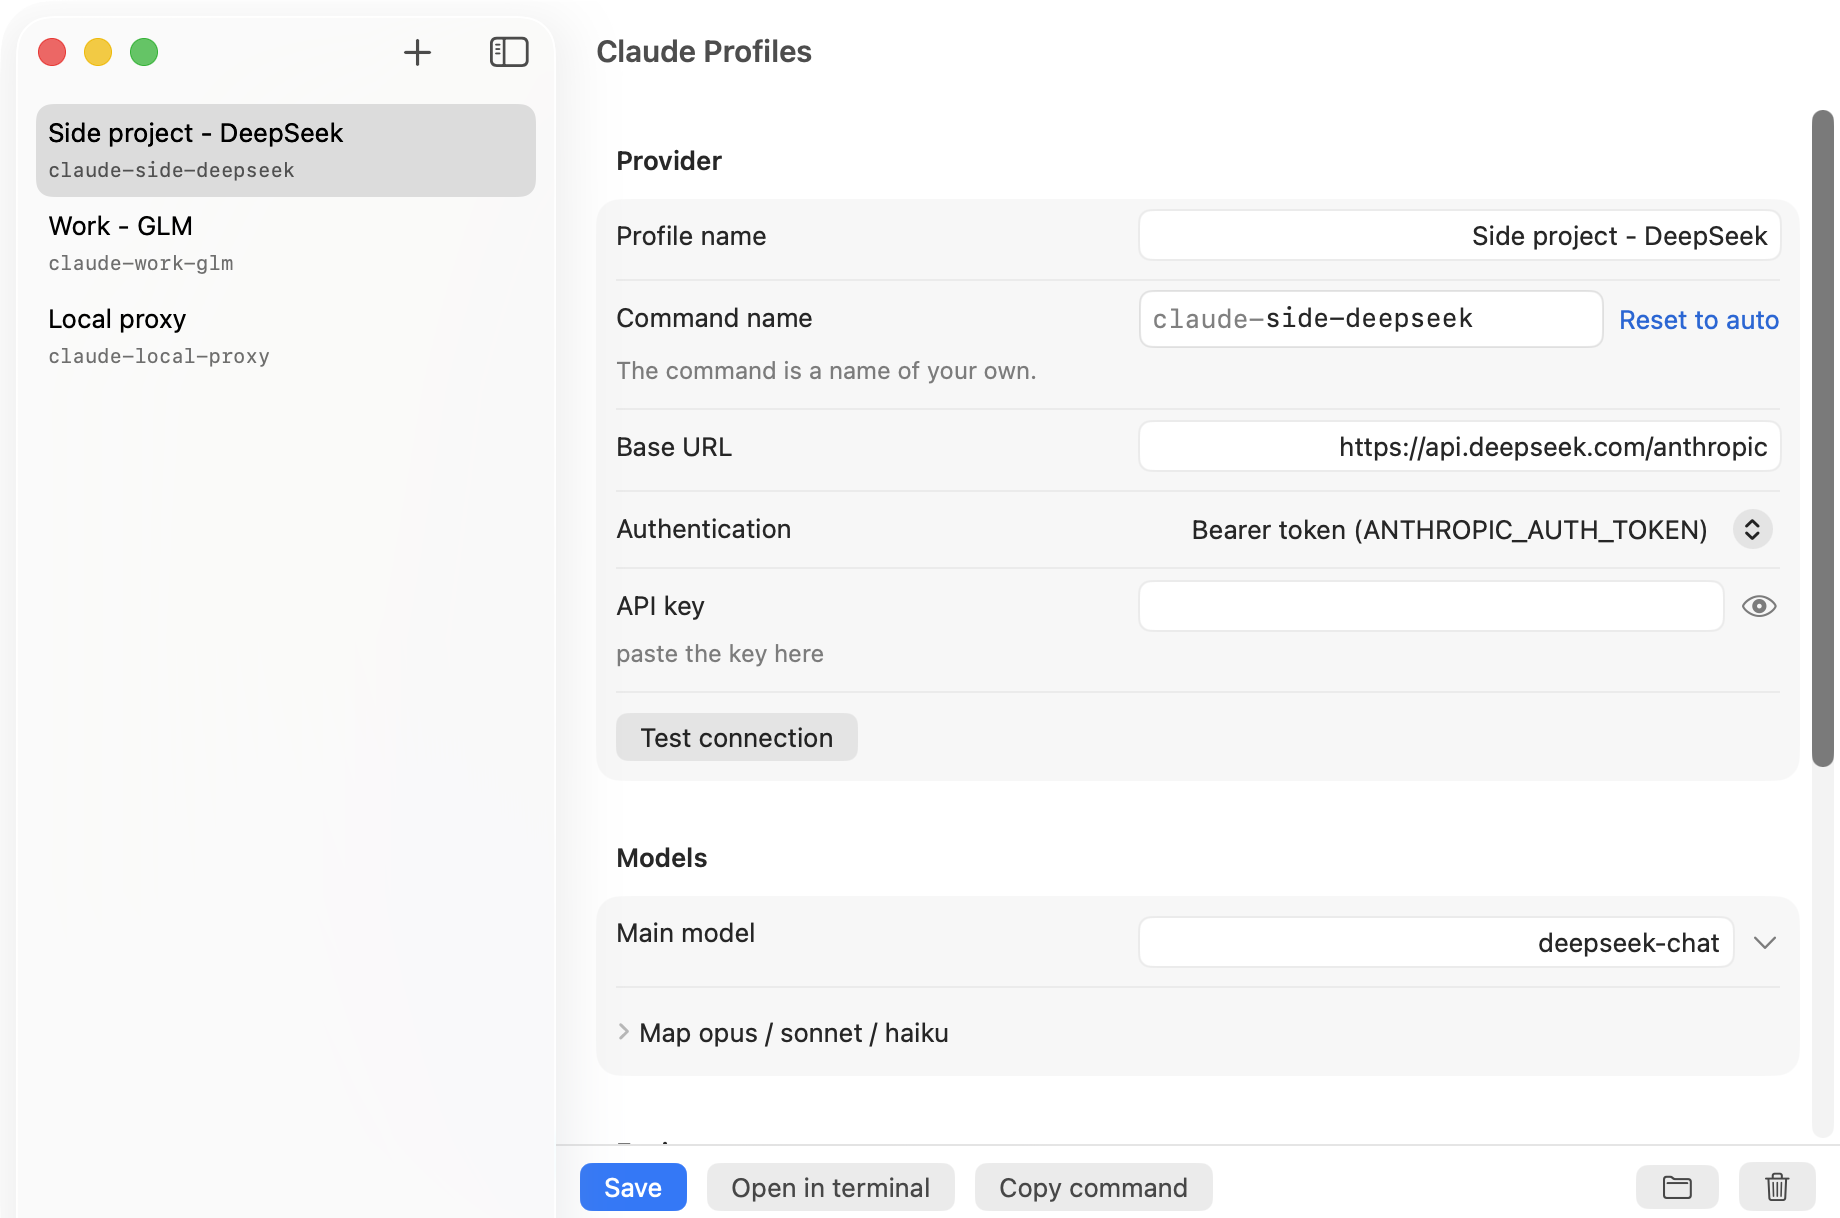
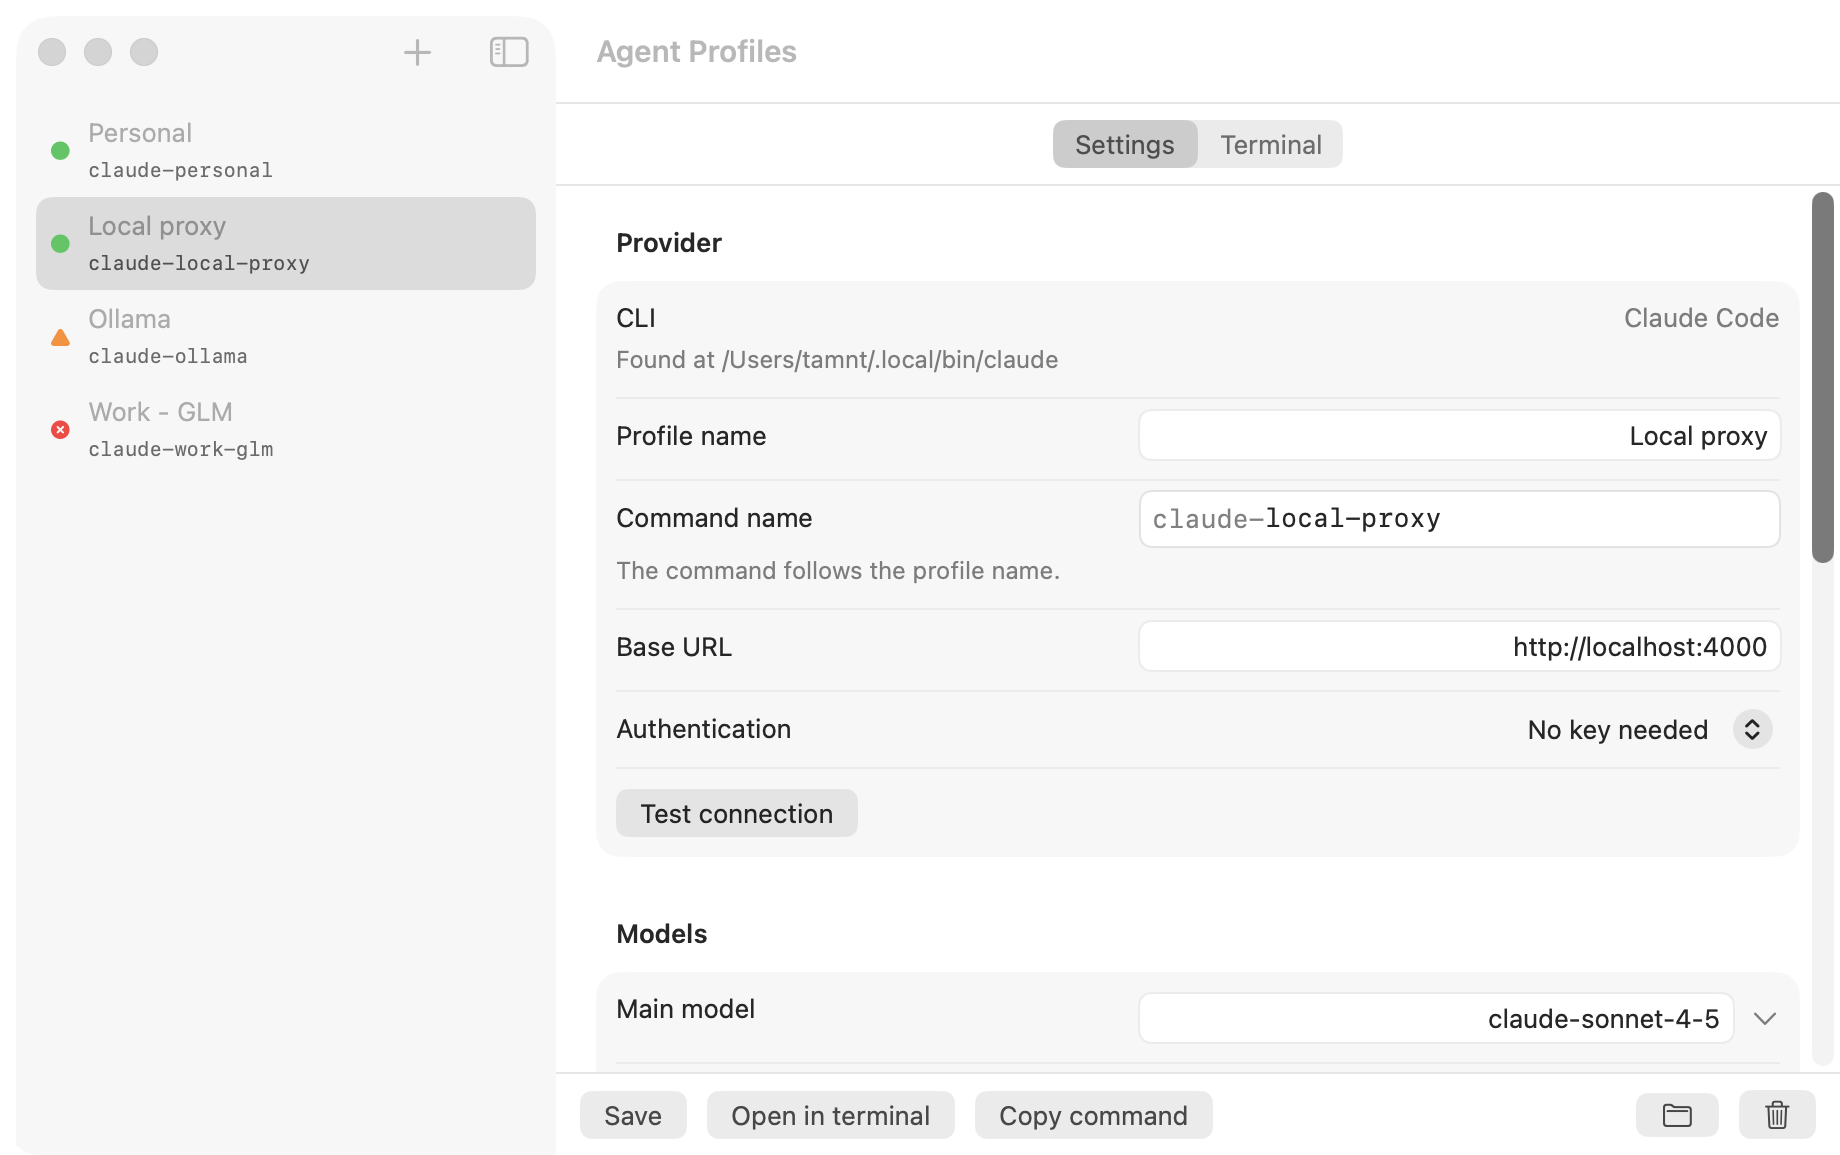
docs: bring the README up to date with 0.3.0
The README now describes the terminal inside the app with its tabs, the choice
of CLI, the connection dots that are kept between runs, the orchestration kit,
the menu bar launcher, the token usage and the Claude subscription and Xiaomi
MiMo templates, and says how to move over from Claude Profiles 0.2.0. The
screenshots are new (the name is Agent Profiles now, and the terminal is
shown), made with sample profiles, not real ones. BUILDING.md mentions the one
dependency.

diff --git a/README.vi.md b/README.vi.md
@@ -5,7 +5,7 @@
 [English](README.md) · Tiếng Việt
 
 <p align="center">
-  <img src="docs/images/main-vi.png" alt="Agent Profiles: danh sách profile bên trái và cài đặt của profile đang chọn bên phải" width="760">
+  <img src="docs/images/main-vi.png" alt="Agent Profiles: danh sách profile bên trái, mỗi profile có một chấm trạng thái, và cài đặt của profile đang chọn bên phải" width="760">
 </p>
 
 Claude Code dùng được với nhiều nhà cung cấp AI chứ không chỉ một. Vướng ở chỗ mỗi nhà cung cấp
@@ -17,32 +17,48 @@ profile có một lệnh riêng. Gõ `claude-work-glm` ở terminal nào cũng l
 nhà cung cấp đó. Gõ `claude-side-deepseek` là bạn làm việc với nhà khác. Key của bạn được giữ an
 toàn, và Claude Code thông thường của bạn không bị đụng tới.
 
+Hiện nay CLI mà app chạy là Claude Code. Các agent khác có thể được thêm sau, vì vậy app có tên
+Agent Profiles.
+
 ## Bạn nhận được gì
 
 - **Một profile cho mỗi nhà cung cấp.** Đặt tên, nhập địa chỉ, key và model. Xong.
+- **Terminal ngay trong ứng dụng.** Mở một profile là terminal của nó nằm ngay trong cửa sổ, có tab
+  (*Phiên mới*, *Khởi động lại phiên*, *Đóng phiên*). Profile vẫn chạy khi bạn xem profile khác, và cột bên
+  đánh dấu những profile đang chạy. Thích Terminal hoặc iTerm2 hơn? Đổi trong cài đặt.
 - **Một lệnh cho mỗi profile.** Lệnh đặt theo tên profile (bạn đổi tên được) và chạy được ở
   terminal nào, thư mục nào.
-- **Mẫu có sẵn** cho OpenRouter, DeepSeek, Kimi, GLM, MiniMax và proxy nội bộ. Chọn một mẫu là
-  địa chỉ tự điền.
+- **Mẫu có sẵn** cho gói đăng ký Claude của bạn (không cần địa chỉ và key, chỉ cần đăng nhập), OpenRouter,
+  DeepSeek, Kimi, GLM, MiniMax, Xiaomi MiMo và proxy nội bộ. Chọn một mẫu là địa chỉ tự điền.
+- **Có chấm cho biết kết nối có chạy không.** App nhờ CLI trả lời một câu ngắn, giống cách lệnh của bạn làm, và
+  nói chỗ nào sai: key, địa chỉ, tên model, đăng nhập hay mạng. Kết quả được giữ giữa các lần mở, nên bạn thấy ngay
+  trạng thái của mọi profile khi mở ứng dụng, và *Kiểm tra kết nối* chỉ làm mới kết quả đó.
 - **Key nằm trong Keychain của macOS.** Key không bao giờ được lưu trong file thường.
 - **Claude Code của bạn vẫn như cũ.** Mỗi profile có cài đặt và lịch sử riêng, nên không có gì
   lẫn từ profile này sang profile khác. Nếu muốn, bạn có thể dùng chung hướng dẫn, kỹ năng và
   agent cho tất cả.
-- **Có chấm cho biết kết nối có chạy không.** *Kiểm tra kết nối* nhờ CLI trả lời một câu ngắn, giống cách lệnh của
-  bạn làm, và nói chỗ nào sai: key, địa chỉ, tên model, đăng nhập hay mạng. Kết quả được giữ giữa các lần mở, nên bạn
-  thấy ngay trạng thái của mọi profile khi mở ứng dụng.
+- **Bộ Orchestration.** Một nút thêm một bộ subagent (scout, researcher, builder, tester, reviewer, committer) và
+  hướng dẫn cho phiên chính vào một profile, để model mạnh lo lập kế hoạch còn các model rẻ hơn lo đọc và gõ. Không có
+  gì ngoài profile đó bị đụng tới.
+- **Trình khởi chạy trên thanh menu.** Mở bất kỳ profile nào chỉ bằng một cú nhấp, trong thư mục riêng của nó hoặc
+  một trong năm thư mục bạn dùng gần nhất.
+- **Thống kê token theo profile.** Xem hôm nay, 7 ngày gần nhất và tất cả, đếm ngay trên máy bạn từ lịch sử riêng của
+  profile, kèm đơn giá mỗi triệu token (tùy chọn) để ước tính chi phí.
 - **Chọn model từ danh sách.** Gõ tên model nào cũng được, hoặc chọn từ những model nhà cung cấp
   đưa ra.
-- **Mở ngay chỗ bạn làm việc.** Chạy profile trong Terminal hoặc iTerm2, vào thẳng thư mục dự án.
-- **Xóa sạch.** Xóa một profile là mọi thứ thuộc về nó đi theo.
+- **Xóa sạch.** Xóa một profile (kể cả từ chính dòng của nó) là mọi thứ thuộc về nó đi theo.
 - **Tiếng Anh và tiếng Việt**, giao diện sáng hoặc tối theo máy của bạn.
 - **Tự cập nhật.** App báo khi có bản mới và cài bằng một cú bấm, sau khi kiểm tra bản đó thật sự
   đến từ chúng tôi.
 
 <p align="center">
+  <img src="docs/images/terminal-dark.png" alt="Một profile chạy Claude Code trong terminal ngay trong cửa sổ" width="760">
+</p>
+
+<p align="center">
   <img src="docs/images/main-light.png" alt="Cùng cửa sổ đó ở giao diện sáng" width="560">
   &nbsp;
-  <img src="docs/images/settings-vi.png" alt="Cửa sổ cài đặt: ngôn ngữ, giao diện, terminal và cập nhật" width="230">
+  <img src="docs/images/settings-vi.png" alt="Cửa sổ cài đặt: ngôn ngữ, giao diện, terminal, kiểm tra kết nối và cập nhật" width="230">
 </p>
 
 ## Cài đặt
@@ -55,11 +71,14 @@ Bạn cần một máy Mac **Apple Silicon** chạy **macOS 14 trở lên**.
 3. Lần đầu, bấm chuột phải vào app rồi chọn **Mở**. macOS chỉ hỏi một lần, vì app chưa được Apple
    notarize.
 
+Đang dùng **Claude Profiles 0.2.0**? Hãy tải bản này bằng tay một lần, vì app cũ không tự cập nhật lên một app đổi
+tên được, rồi xóa `Claude Profiles.app` cũ. Profile, key và lệnh của bạn được giữ nguyên.
+
 ## Bắt đầu trong ba bước
 
-1. Bấm **+**, chọn một mẫu nhà cung cấp (hoặc bắt đầu từ trống) và gõ tên.
+1. Bấm **+**, chọn CLI và một mẫu nhà cung cấp (hoặc bắt đầu từ trống) và gõ tên.
 2. Dán key và bấm **Kiểm tra kết nối**. Rồi **Lưu**.
-3. Bấm **Mở trong terminal**, hoặc gõ lệnh của profile ở terminal bất kỳ.
+3. Mở tab **Terminal**, hoặc bấm **Mở trong terminal**, hoặc gõ lệnh của profile ở terminal bất kỳ.
 
 Khi bạn lưu profile đầu tiên, app hỏi có làm cho các lệnh chạy được ở mọi terminal không. App
 luôn hỏi trước, và bạn hoàn tác được bất cứ lúc nào trong phần cài đặt.
@@ -75,7 +94,14 @@ Không. Cài đặt Claude Code của bạn được để yên. Mỗi profile c
 
 **Dùng được với nhà cung cấp nào?**
 Bất kỳ nhà cung cấp nào có địa chỉ tương thích Claude. Các mẫu có sẵn phủ những nhà phổ biến, còn
-địa chỉ khác bạn gõ tay.
+địa chỉ khác bạn gõ tay. Hoặc dùng gói đăng ký Claude của bạn: chọn mẫu đó và đăng nhập ở lần đầu mở profile.
+
+**Hỗ trợ những CLI nào?**
+Hiện là Claude Code. Khi tạo profile, app tìm các CLI đã cài trên máy bạn. Các CLI khác đang được lên kế hoạch.
+
+**Dữ liệu của tôi nằm ở đâu?**
+Trong `~/.claude-profiles` (profile, launcher, một thư mục cấu hình cho mỗi profile) và Keychain của macOS (key). Thư
+mục giữ tên ban đầu của app, nên không phải chuyển gì khi app đổi tên.
 
 **Kiểm tra kết nối tốn bao nhiêu?**
 Một yêu cầu ngắn qua CLI: khoảng 1.500 token vào và vài token ra. Ứng dụng cũng làm vậy một lần cho profile chưa có
@@ -87,7 +113,7 @@ Key, lệnh và lịch sử đã lưu của nó đều bị xóa. Nếu đó là
 thiết lập terminal mà nó đã thêm không.
 
 **Có chạy trên Mac Intel không?**
-Chưa. Phiên bản 0.1 chỉ chạy trên Apple Silicon.
+Chưa. App chỉ chạy trên Apple Silicon.
 
 ## Xem thêm
 

diff --git a/README.md b/README.md
@@ -5,7 +5,7 @@
 English · [Tiếng Việt](README.vi.md)
 
 <p align="center">
-  <img src="docs/images/main-dark.png" alt="Agent Profiles: a list of profiles on the left and the settings of the selected profile on the right" width="760">
+  <img src="docs/images/main-dark.png" alt="Agent Profiles: a list of profiles on the left, with a dot for each one, and the settings of the selected profile on the right" width="760">
 </p>
 
 Claude Code can work with many AI providers, not only one. The catch is that every
@@ -17,33 +17,50 @@ profile gets its own command. Type `claude-work-glm` in any terminal and you are
 with that provider. Type `claude-side-deepseek` and you are working with another one. Your
 keys stay safe, and your normal Claude Code setup is never touched.
 
+Claude Code is the CLI it runs today. Other agents can be added later, which is why the app is
+called Agent Profiles.
+
 ## What you get
 
 - **One profile per provider.** Give it a name, an address, a key and a model. Done.
+- **A terminal inside the app.** Open a profile and its terminal is right in the window, with tabs
+  (*New session*, *Restart session*, *Close session*). A profile keeps running while you look at
+  another one, and the sidebar marks the ones that run. Prefer Terminal or iTerm2? Switch in the settings.
 - **One command per profile.** The command is named after the profile (you can rename it)
   and works from any terminal, in any folder.
-- **Ready-made templates** for OpenRouter, DeepSeek, Kimi, GLM, MiniMax and a local proxy.
-  Pick one and the address fills itself in.
+- **Ready-made templates** for your Claude subscription (no address and no key, you just sign in),
+  OpenRouter, DeepSeek, Kimi, GLM, MiniMax, Xiaomi MiMo and a local proxy. Pick one and the
+  address fills itself in.
+- **A dot that tells you if it works.** The app asks the CLI for one short answer, the way your own
+  command does, and tells you what is wrong: the key, the address, the model name, the sign-in or the
+  network. The result is kept between runs, so you see the state of every profile as soon as you open
+  the app, and *Test connection* only refreshes it.
 - **Keys kept in the macOS Keychain.** Your keys are never saved in a plain file.
 - **Your own Claude Code stays as it is.** Each profile keeps its own settings and history,
   so nothing leaks from one to another. If you like, you can share your instructions, skills
   and agents across all of them.
-- **A dot that tells you if it works.** *Test connection* asks the CLI for one short answer, the way your
-  own command does, and tells you what is wrong: the key, the address, the model name, the sign-in or the
-  network. The result is kept between runs, so you see the state of every profile as soon as you open the app.
+- **Orchestration kit.** One button adds a set of subagents (scout, researcher, builder, tester,
+  reviewer, committer) and the instructions for the main session to one profile, so a strong model
+  can plan while cheaper ones do the reading and the typing. Nothing outside that profile is touched.
+- **A launcher in the menu bar.** Open any profile in one click, in its own folder or in one of the
+  five you used last.
+- **Token usage per profile.** See today, the last 7 days and all time, counted on your Mac from the
+  profile's own history, with an optional price per million tokens for a cost estimate.
 - **Pick the model from a list.** Type any model name, or choose from the ones your provider
   offers.
-- **Opens right where you work.** Start a profile in Terminal or iTerm2, straight in your
-  project folder.
-- **Clean removal.** Delete a profile and everything that belongs to it goes with it.
+- **Clean removal.** Delete a profile (from its row too) and everything that belongs to it goes with it.
 - **English and Vietnamese**, with a light or dark look that follows your Mac.
 - **Updates itself.** The app tells you when a new version is out and installs it with one
   click, after checking that it really comes from us.
 
 <p align="center">
+  <img src="docs/images/terminal-dark.png" alt="A profile running Claude Code in the terminal inside the window" width="760">
+</p>
+
+<p align="center">
   <img src="docs/images/main-light.png" alt="The same window in the light theme" width="560">
   &nbsp;
-  <img src="docs/images/settings-en.png" alt="The settings window: language, theme, terminal and updates" width="230">
+  <img src="docs/images/settings-en.png" alt="The settings window: language, theme, terminal, connection checks and updates" width="230">
 </p>
 
 ## Install
@@ -56,11 +73,15 @@ You need a Mac with **Apple Silicon** running **macOS 14 or later**.
 3. The first time, right-click the app and choose **Open**. macOS asks once because the app is
    not notarized by Apple yet.
 
+Coming from **Claude Profiles 0.2.0**? Download this version by hand once, because the old app cannot
+update itself to a differently named app, then delete the old `Claude Profiles.app`. Your profiles, keys
+and commands carry over as they are.
+
 ## Get started in three steps
 
-1. Click **+**, pick a provider template (or start from scratch) and type a name.
+1. Click **+**, pick the CLI and a provider template (or start from scratch) and type a name.
 2. Paste your key and click **Test connection**. Then **Save**.
-3. Click **Open in terminal**, or type the profile's command in any terminal.
+3. Open the **Terminal** tab, or click **Open in terminal**, or type the profile's command in any terminal.
 
 When you save your first profile, the app offers to make the commands work in every terminal.
 It asks first, and you can undo it at any time from the settings.
@@ -76,7 +97,16 @@ No. Your own Claude Code settings are left alone. Each profile has a separate sp
 
 **Which providers can I use?**
 Any provider that offers a Claude-compatible address. The templates cover the popular ones, and
-you can type any other address by hand.
+you can type any other address by hand. Or use your Claude subscription: pick that template and sign in the
+first time you open the profile.
+
+**Which CLIs does it support?**
+Claude Code for now. The app looks for the CLIs that are installed on your Mac when you create a profile.
+Others are planned.
+
+**Where is my data?**
+In `~/.claude-profiles` (profiles, launchers, one config folder per profile) and the macOS Keychain (keys). The
+folder keeps the name the app had at first, so nothing had to move when it was renamed.
 
 **What does *Test connection* cost?**
 One short request through the CLI: about 1,500 tokens in and a few out. The app also does it once for a profile
@@ -88,7 +118,7 @@ Its key, its command and its saved history are all removed. If it was your last 
 also offers to remove the terminal setup it added.
 
 **Does it work on an Intel Mac?**
-Not yet. Version 0.1 runs on Apple Silicon only.
+Not yet. The app runs on Apple Silicon only.
 
 ## More
 

diff --git a/docs/BUILDING.md b/docs/BUILDING.md
@@ -2,7 +2,9 @@
 
 ## English
 
-You need a Mac with macOS 14 or later and the Xcode Command Line Tools (Swift 6.2).
+You need a Mac with macOS 14 or later and the Xcode Command Line Tools (Swift 6.2). The first build
+downloads the one dependency, [SwiftTerm](https://github.com/migueldeicaza/SwiftTerm) (the terminal inside
+the app), at the exact version pinned in `Package.resolved`, so it needs the network once.
 
 ```sh
 ./build-mac.sh              # build and install into ~/Applications
@@ -24,7 +26,9 @@ tests, and `Sources/AgentProfiles` holds the SwiftUI interface.
 
 ## Tiếng Việt
 
-Bạn cần một máy Mac chạy macOS 14 trở lên và Xcode Command Line Tools (Swift 6.2).
+Bạn cần một máy Mac chạy macOS 14 trở lên và Xcode Command Line Tools (Swift 6.2). Lần build đầu tải về dependency
+duy nhất, [SwiftTerm](https://github.com/migueldeicaza/SwiftTerm) (terminal trong ứng dụng), đúng phiên bản được ghim
+trong `Package.resolved`, nên cần mạng một lần.
 
 ```sh
 ./build-mac.sh              # build và cài vào ~/Applications
